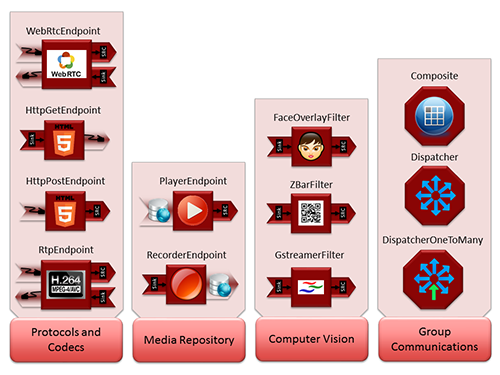
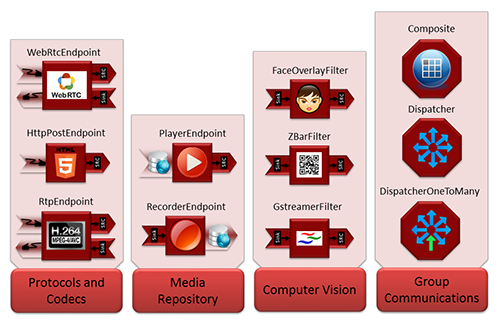
Removed references to HttpGetEndpoint

diff --git a/source/mastering/kurento_API.rst b/source/mastering/kurento_API.rst
@@ -136,10 +136,19 @@ Endpoints
 
 Let us discuss briefly the different Endpoints offered by kurento.
 
-An **HttpGetEndpoint** is an output endpoint that delivers media using HTML5
-pseudo-streaming mechanism by means of http GET requests.
+A **WebRtcEndpoint** is an output and input endpoint that provides media
+streaming for Real Time Communications (RTC) through the web. It implements
+:term:`WebRTC` technology to communicate with browsers.
 
-.. image:: ../images/toolbox/HttpGetEndpoint.png
+.. image:: ../images/toolbox/WebRtcEndpoint.png
+   :align:  center
+
+A **RtpEndpoint** is an output and input endpoint. That is, provides
+bidirectional content delivery capabilities with remote networked peers through
+RTP protocol. As you can imagine, to send and receive media through the network
+it uses :term:`RTP` protocol and :term:`SDP` for media negotiation.
+
+.. image:: ../images/toolbox/RtpEndpoint.png
    :align:  center
 
 An **HttpPostEndpoint** is an input endpoint that accepts media using http POST
@@ -160,23 +169,6 @@ pads for audio and video.
 
 .. image:: ../images/toolbox/RecorderEndpoint.png
    :align:  center
-
-
-A **RtpEndpoint** is an output and input endpoint. That is, provides
-bidirectional content delivery capabilities with remote networked peers through
-RTP protocol. As you can imagine, to send and receive media through the network
-it uses :term:`RTP` protocol and :term:`SDP` for media negotiation.
-
-.. image:: ../images/toolbox/RtpEndpoint.png
-   :align:  center
-
-A **WebRtcEndpoint** is an output and input endpoint that provides media
-streaming for Real Time Communications (RTC) through the web. It implements
-:term:`WebRTC` technology to communicate with browsers.
-
-.. image:: ../images/toolbox/WebRtcEndpoint.png
-   :align:  center
-
 
 The following class diagram shows the relationships of the main endpoint classes.
 
@@ -209,7 +201,6 @@ The following class diagram shows the relationships of the main endpoint classes
    SessionEndpoint -> HttpEndpoint;
    SessionEndpoint -> SdpEndpoint;
 
-   HttpEndpoint -> HttpGetEndpoint;
    HttpEndpoint -> HttpPostEndpoint;
 
    SdpEndpoint -> RtpEndpoint;

diff --git a/source/tutorials/java/tutorial-5-one2one-adv.rst b/source/tutorials/java/tutorial-5-one2one-adv.rst
@@ -78,9 +78,7 @@ in the browser:
 .. note::
 
    The playback of a static file can be done in several ways. In addition to this
-   media pipeline (*PlayerEndpoint* -> *WebRtcEndpoint*), other possibilities can
-   be implemented. For example, a Media Pipeline composed by *PlayerEndpoint* ->
-   *HttpGetEndpoint* could be another possible alternative. Also, the recorded file
+   media pipeline (*PlayerEndpoint* -> *WebRtcEndpoint*) the recorded file
    could be served directly by an HTTP server.
 
 To communicate the client with the server to manage calls we have designed a
